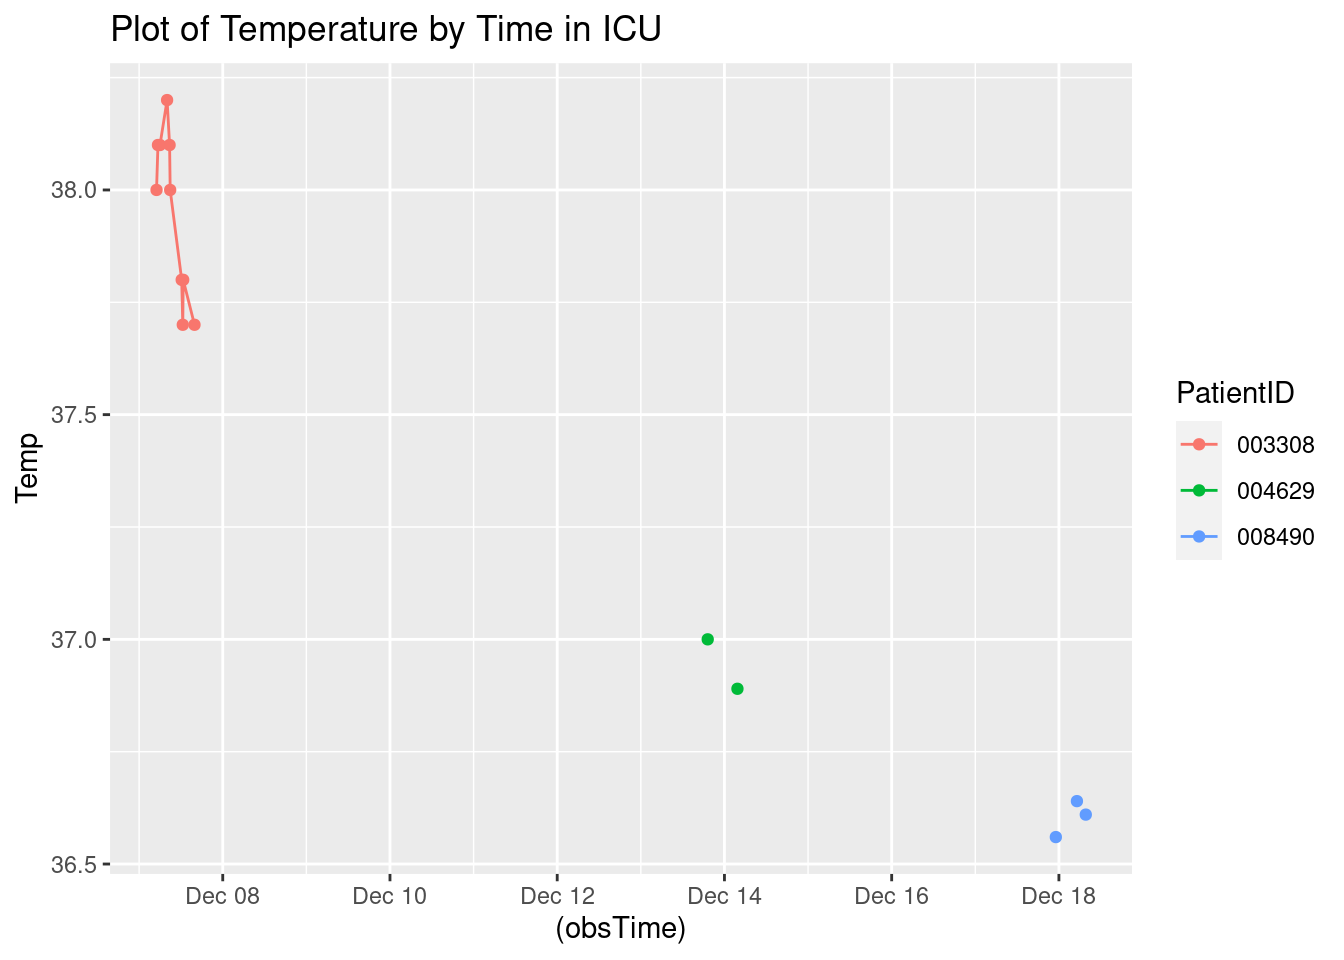
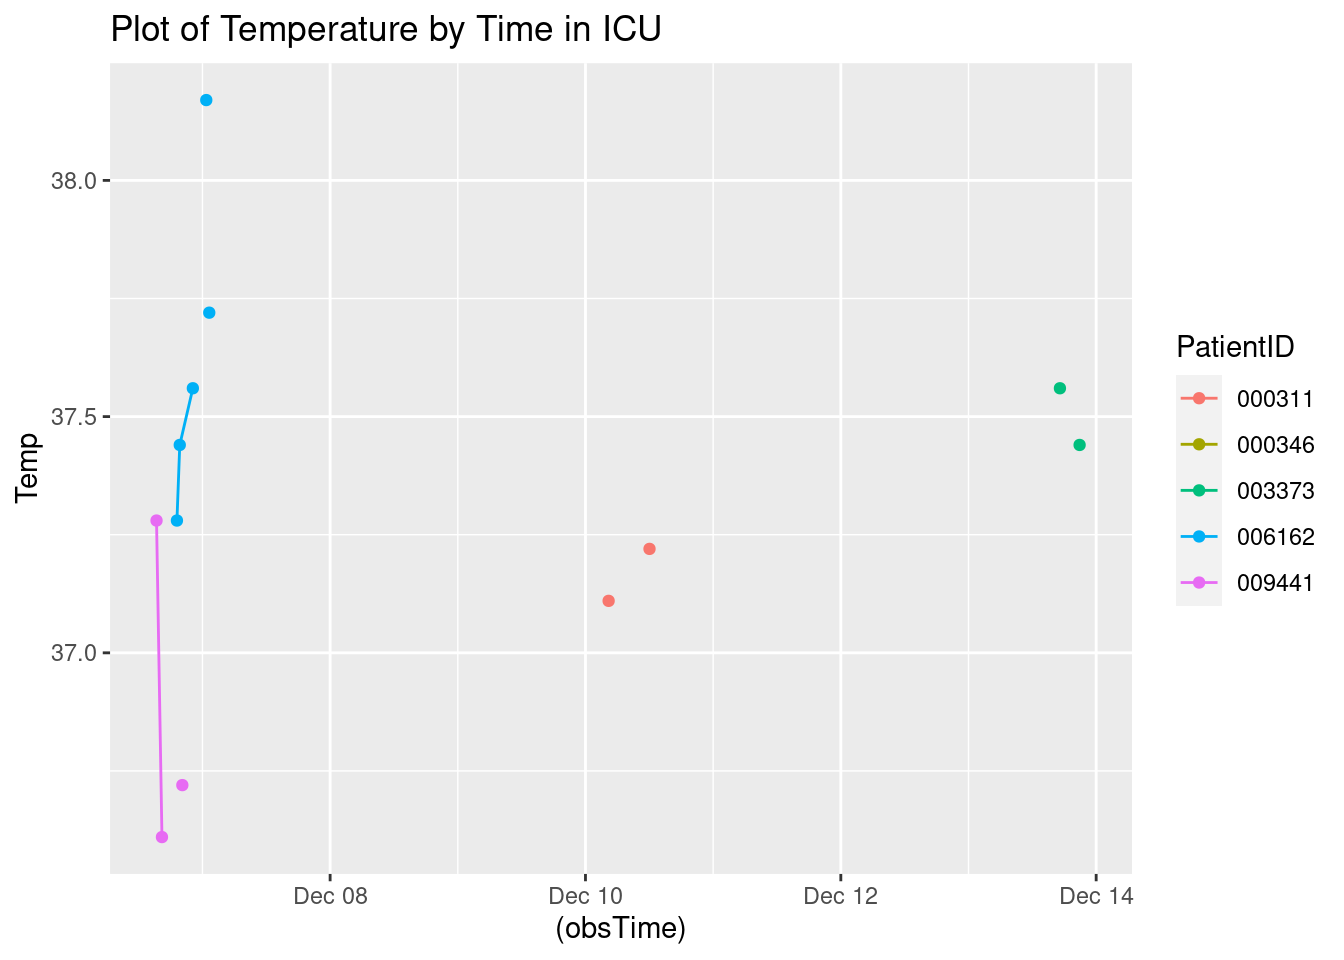
Updated report

diff --git a/A7.html b/A7.html
@@ -114,7 +114,7 @@ pre > code.sourceCode > span > a:first-child::before { text-decoration: underlin
 </div>
 <div class="sourceCode cell-code" id="cb4"><pre class="sourceCode r code-with-copy"><code class="sourceCode r"><span id="cb4-1"><a href="#cb4-1" aria-hidden="true" tabindex="-1"></a><span class="fu">toc</span>()</span></code><button title="Copy to Clipboard" class="code-copy-button"><i class="bi"></i></button></pre></div>
 <div class="cell-output cell-output-stdout">
-<pre><code>3.785 sec elapsed</code></pre>
+<pre><code>3.841 sec elapsed</code></pre>
 </div>
 <div class="sourceCode cell-code" id="cb6"><pre class="sourceCode r code-with-copy"><code class="sourceCode r"><span id="cb6-1"><a href="#cb6-1" aria-hidden="true" tabindex="-1"></a><span class="fu">tic</span>()</span>
 <span id="cb6-2"><a href="#cb6-2" aria-hidden="true" tabindex="-1"></a>test1<span class="ot">=</span><span class="fu">makeSepsisDataset</span>(<span class="at">n=</span><span class="dv">50</span>,<span class="at">read_fn =</span> <span class="st">"read_delim"</span>)</span>
@@ -124,7 +124,7 @@ pre > code.sourceCode > span > a:first-child::before { text-decoration: underlin
 </div>
 <div class="sourceCode cell-code" id="cb8"><pre class="sourceCode r code-with-copy"><code class="sourceCode r"><span id="cb8-1"><a href="#cb8-1" aria-hidden="true" tabindex="-1"></a><span class="fu">toc</span>()</span></code><button title="Copy to Clipboard" class="code-copy-button"><i class="bi"></i></button></pre></div>
 <div class="cell-output cell-output-stdout">
-<pre><code>13.691 sec elapsed</code></pre>
+<pre><code>13.346 sec elapsed</code></pre>
 </div>
 <div class="sourceCode cell-code" id="cb10"><pre class="sourceCode r code-with-copy"><code class="sourceCode r"><span id="cb10-1"><a href="#cb10-1" aria-hidden="true" tabindex="-1"></a><span class="co"># n=100</span></span>
 <span id="cb10-2"><a href="#cb10-2" aria-hidden="true" tabindex="-1"></a><span class="fu">tic</span>()</span>
@@ -135,7 +135,7 @@ pre > code.sourceCode > span > a:first-child::before { text-decoration: underlin
 </div>
 <div class="sourceCode cell-code" id="cb12"><pre class="sourceCode r code-with-copy"><code class="sourceCode r"><span id="cb12-1"><a href="#cb12-1" aria-hidden="true" tabindex="-1"></a><span class="fu">toc</span>()</span></code><button title="Copy to Clipboard" class="code-copy-button"><i class="bi"></i></button></pre></div>
 <div class="cell-output cell-output-stdout">
-<pre><code>6.847 sec elapsed</code></pre>
+<pre><code>6.856 sec elapsed</code></pre>
 </div>
 <div class="sourceCode cell-code" id="cb14"><pre class="sourceCode r code-with-copy"><code class="sourceCode r"><span id="cb14-1"><a href="#cb14-1" aria-hidden="true" tabindex="-1"></a><span class="fu">tic</span>()</span>
 <span id="cb14-2"><a href="#cb14-2" aria-hidden="true" tabindex="-1"></a>test1<span class="ot">=</span><span class="fu">makeSepsisDataset</span>(<span class="at">n=</span><span class="dv">100</span>,<span class="at">read_fn =</span> <span class="st">"read_delim"</span>)</span>
@@ -145,7 +145,7 @@ pre > code.sourceCode > span > a:first-child::before { text-decoration: underlin
 </div>
 <div class="sourceCode cell-code" id="cb16"><pre class="sourceCode r code-with-copy"><code class="sourceCode r"><span id="cb16-1"><a href="#cb16-1" aria-hidden="true" tabindex="-1"></a><span class="fu">toc</span>()</span></code><button title="Copy to Clipboard" class="code-copy-button"><i class="bi"></i></button></pre></div>
 <div class="cell-output cell-output-stdout">
-<pre><code>24.858 sec elapsed</code></pre>
+<pre><code>24.755 sec elapsed</code></pre>
 </div>
 <div class="sourceCode cell-code" id="cb18"><pre class="sourceCode r code-with-copy"><code class="sourceCode r"><span id="cb18-1"><a href="#cb18-1" aria-hidden="true" tabindex="-1"></a><span class="co"># n=500</span></span>
 <span id="cb18-2"><a href="#cb18-2" aria-hidden="true" tabindex="-1"></a><span class="fu">tic</span>()</span>
@@ -156,7 +156,7 @@ pre > code.sourceCode > span > a:first-child::before { text-decoration: underlin
 </div>
 <div class="sourceCode cell-code" id="cb20"><pre class="sourceCode r code-with-copy"><code class="sourceCode r"><span id="cb20-1"><a href="#cb20-1" aria-hidden="true" tabindex="-1"></a><span class="fu">toc</span>()</span></code><button title="Copy to Clipboard" class="code-copy-button"><i class="bi"></i></button></pre></div>
 <div class="cell-output cell-output-stdout">
-<pre><code>33.926 sec elapsed</code></pre>
+<pre><code>35.009 sec elapsed</code></pre>
 </div>
 <div class="sourceCode cell-code" id="cb22"><pre class="sourceCode r code-with-copy"><code class="sourceCode r"><span id="cb22-1"><a href="#cb22-1" aria-hidden="true" tabindex="-1"></a><span class="fu">tic</span>()</span>
 <span id="cb22-2"><a href="#cb22-2" aria-hidden="true" tabindex="-1"></a>test1<span class="ot">=</span><span class="fu">makeSepsisDataset</span>(<span class="at">n=</span><span class="dv">500</span>,<span class="at">read_fn =</span> <span class="st">"read_delim"</span>)</span>
@@ -166,7 +166,7 @@ pre > code.sourceCode > span > a:first-child::before { text-decoration: underlin
 </div>
 <div class="sourceCode cell-code" id="cb24"><pre class="sourceCode r code-with-copy"><code class="sourceCode r"><span id="cb24-1"><a href="#cb24-1" aria-hidden="true" tabindex="-1"></a><span class="fu">toc</span>()</span></code><button title="Copy to Clipboard" class="code-copy-button"><i class="bi"></i></button></pre></div>
 <div class="cell-output cell-output-stdout">
-<pre><code>124.914 sec elapsed</code></pre>
+<pre><code>122.714 sec elapsed</code></pre>
 </div>
 </div>
 <p><strong>Task 3</strong></p>
@@ -192,7 +192,7 @@ pre > code.sourceCode > span > a:first-child::before { text-decoration: underlin
 <span id="cb28-4"><a href="#cb28-4" aria-hidden="true" tabindex="-1"></a></span>
 <span id="cb28-5"><a href="#cb28-5" aria-hidden="true" tabindex="-1"></a><span class="fu">Sys.time</span>()</span></code><button title="Copy to Clipboard" class="code-copy-button"><i class="bi"></i></button></pre></div>
 <div class="cell-output cell-output-stdout">
-<pre><code>[1] "2023-12-06 14:19:57 UTC"</code></pre>
+<pre><code>[1] "2023-12-06 15:22:05 UTC"</code></pre>
 </div>
 <div class="sourceCode cell-code" id="cb30"><pre class="sourceCode r code-with-copy"><code class="sourceCode r"><span id="cb30-1"><a href="#cb30-1" aria-hidden="true" tabindex="-1"></a>dfnew <span class="ot">&lt;-</span> df <span class="sc">%&gt;%</span></span>
 <span id="cb30-2"><a href="#cb30-2" aria-hidden="true" tabindex="-1"></a>  <span class="fu">subset</span>(SepsisLabel<span class="sc">==</span><span class="dv">1</span>)</span>
@@ -221,31 +221,49 @@ pre > code.sourceCode > span > a:first-child::before { text-decoration: underlin
 </thead>
 <tbody>
 <tr class="odd">
-<td style="text-align: left;">003308</td>
-<td style="text-align: right;">26</td>
-<td style="text-align: right;">92</td>
-<td style="text-align: right;">37.70</td>
-<td style="text-align: right;">22</td>
+<td style="text-align: left;">000311</td>
+<td style="text-align: right;">97</td>
+<td style="text-align: right;">95</td>
+<td style="text-align: right;">NA</td>
+<td style="text-align: right;">23</td>
 <td style="text-align: right;">1</td>
-<td style="text-align: left;">2023-12-07 15:53:39</td>
+<td style="text-align: left;">2023-12-10 14:29:18</td>
 </tr>
 <tr class="even">
-<td style="text-align: left;">004629</td>
-<td style="text-align: right;">182</td>
-<td style="text-align: right;">107</td>
+<td style="text-align: left;">000346</td>
+<td style="text-align: right;">62</td>
+<td style="text-align: right;">73</td>
 <td style="text-align: right;">NA</td>
-<td style="text-align: right;">36</td>
-<td style="text-align: right;">1</td>
-<td style="text-align: left;">2023-12-14 04:04:24</td>
-</tr>
-<tr class="odd">
-<td style="text-align: left;">008490</td>
-<td style="text-align: right;">284</td>
-<td style="text-align: right;">92</td>
-<td style="text-align: right;">36.61</td>
 <td style="text-align: right;">17</td>
 <td style="text-align: right;">1</td>
-<td style="text-align: left;">2023-12-18 07:42:53</td>
+<td style="text-align: left;">2023-12-09 05:13:03</td>
+</tr>
+<tr class="odd">
+<td style="text-align: left;">003373</td>
+<td style="text-align: right;">175</td>
+<td style="text-align: right;">94</td>
+<td style="text-align: right;">NA</td>
+<td style="text-align: right;">22</td>
+<td style="text-align: right;">1</td>
+<td style="text-align: left;">2023-12-13 22:02:55</td>
+</tr>
+<tr class="even">
+<td style="text-align: left;">006162</td>
+<td style="text-align: right;">11</td>
+<td style="text-align: right;">71</td>
+<td style="text-align: right;">37.72</td>
+<td style="text-align: right;">14</td>
+<td style="text-align: right;">1</td>
+<td style="text-align: left;">2023-12-07 01:16:49</td>
+</tr>
+<tr class="odd">
+<td style="text-align: left;">009441</td>
+<td style="text-align: right;">7</td>
+<td style="text-align: right;">74</td>
+<td style="text-align: right;">NA</td>
+<td style="text-align: right;">17</td>
+<td style="text-align: right;">1</td>
+<td style="text-align: left;">2023-12-06 21:52:46</td>
 </tr>
 </tbody>
 </table>
